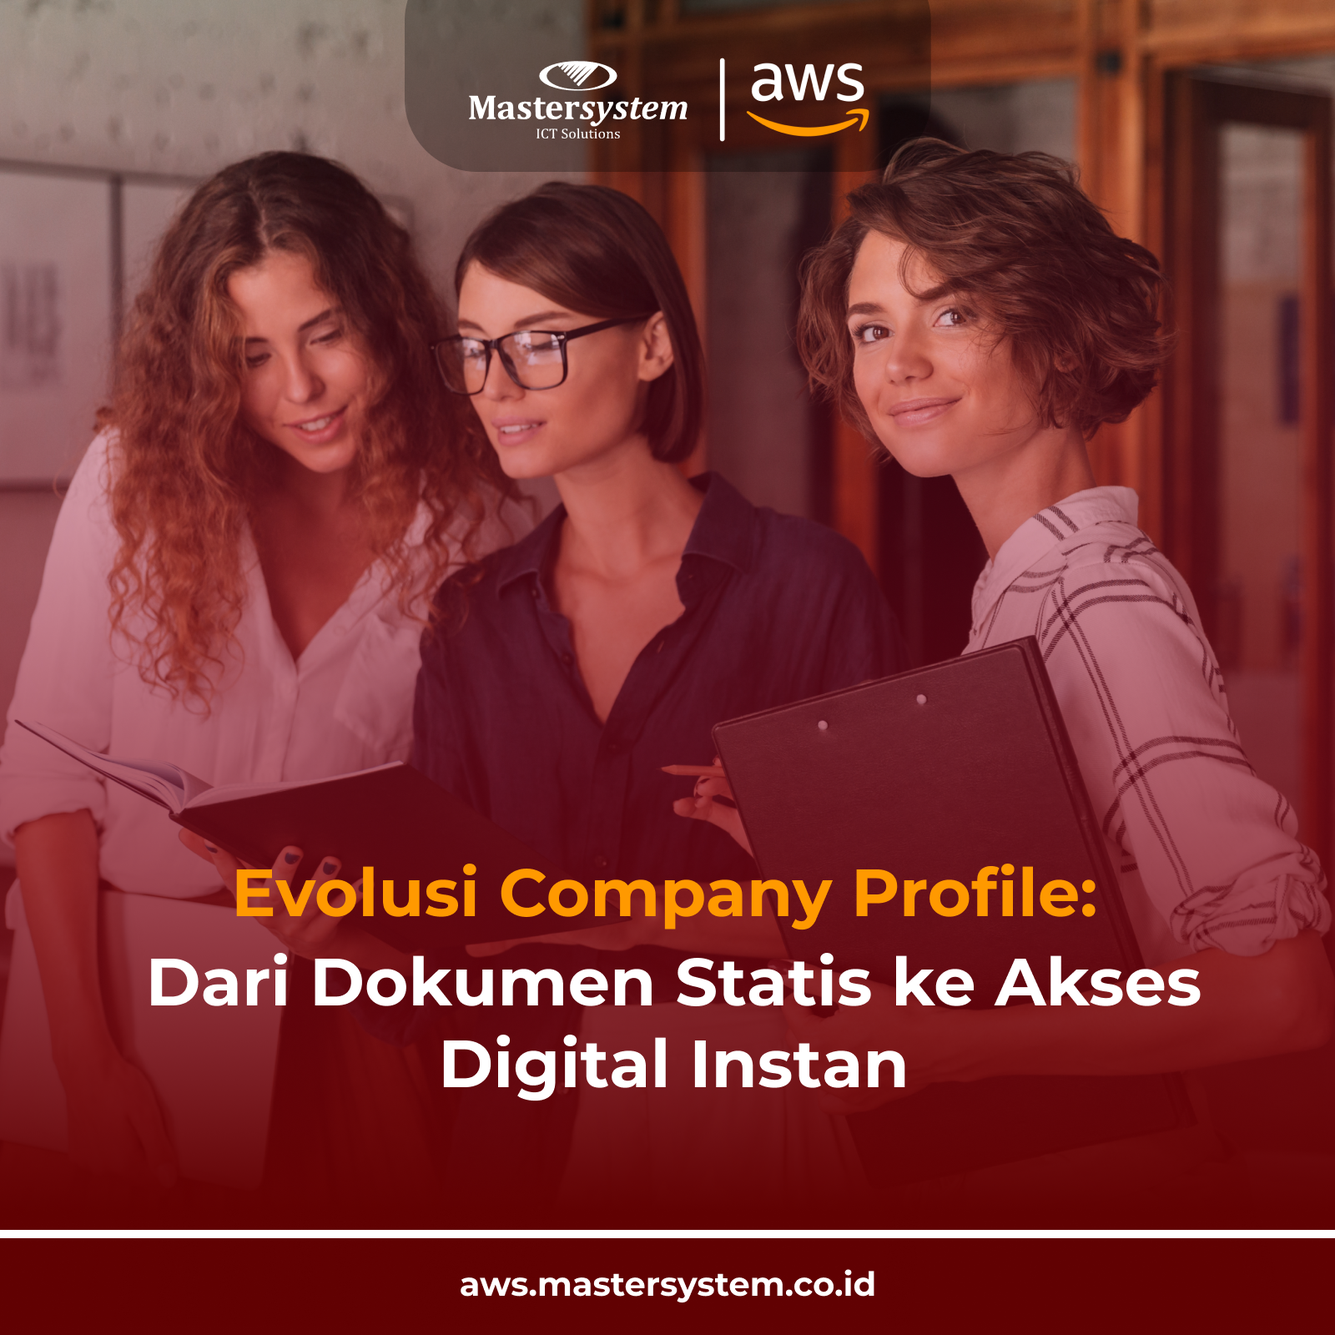
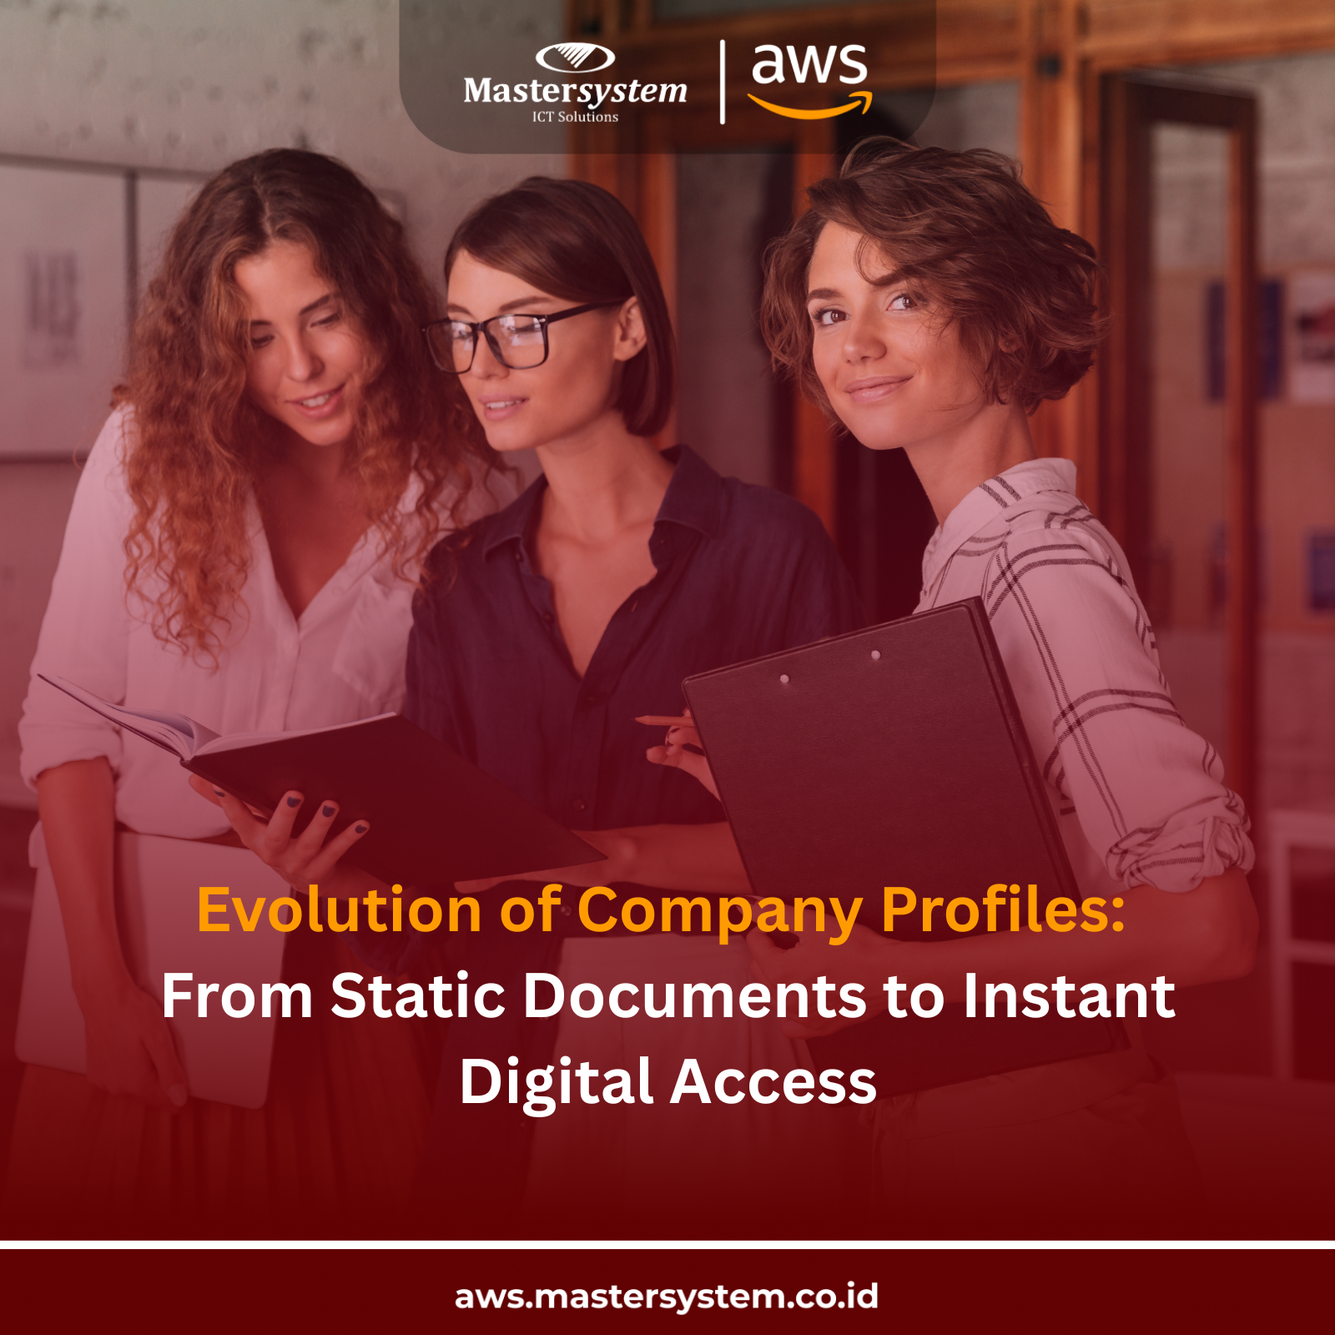
update

diff --git a/src/components/detailNews/AwrapperCompanyProfile.jsx b/src/components/detailNews/AwrapperCompanyProfile.jsx
@@ -18,137 +18,137 @@ const AwrapperCompanyProfile = () => {
   return (
     <>
       <section className='homeAbout' id="sukses_aws">
-        <Heading title='Evolusi Company Profile: Dari Dokumen Statis ke Akses Digital Instan' />
+        <Heading title='Evolution of Company Profiles: From Static Documents to Instant Digital Access' />
         <div className=" bg-white">
-          <h3>Dari File Statis ke Profil Dinamis</h3>
+          <h3>From Static Files to Dynamic Profiles</h3>
           <br />
-          Company profile adalah wajah pertama perusahaan. Sayangnya, format tradisional seperti PDF atau PowerPoint sering merepotkan: file terlalu besar, tampilan tidak responsif di mobile, dan cepat kadaluarsa saat ada update.
+          A company profile is the first impression of a company. Unfortunately, traditional formats such as PDF or PowerPoint are often inconvenient: the files are too large, the display is not responsive on mobile devices, and they quickly become outdated when there are updates.
           <br /><br />
-          Hasilnya, compro yang seharusnya menjadi alat branding dinamis justru sering berakhir sebagai dokumen statis yang cepat kadaluarsa. Di sinilah cloud computing menawarkan solusi. Dengan memanfaatkan Amazon S3, compro yang tadinya berbentuk file statis bisa diubah menjadi situs web sederhana, modern, interaktif, dan selalu up-to-date. Tidak perlu infrastruktur rumit, tidak perlu biaya besar. Cukup unggah file ke cloud, lakukan beberapa pengaturan, dan compro digital siap digunakan.
+          As a result, compros, which should be dynamic branding tools, often end up as static documents that quickly become outdated. This is where cloud computing offers a solution. By utilizing Amazon S3, compros that were previously static files can be converted into simple, modern, interactive, and always up-to-date websites. No complicated infrastructure is needed, and there are no huge costs involved. Simply upload the files to the cloud, make a few settings, and your digital compro is ready to use.
           <br /><br />
 
-          <h3>        Mengapa Memilih Amazon S3 untuk Compro Digital?
+          <h3>        Why Choose Amazon S3 for Compro Digital?
           </h3>
           <div className="image-diagram">
             <img src={diagram1} alt="" />
           </div>
           <br />
-          Amazon Simple Storage Service (S3) adalah layanan penyimpanan data di cloud yang digunakan oleh jutaan perusahaan di seluruh dunia. Banyak yang mengenalnya hanya sebagai “tempat simpan file”, padahal S3 memiliki fitur yang jauh lebih luas.
+          Amazon Simple Storage Service (S3) is a cloud data storage service used by millions of companies around the world. Many people know it only as a “file storage place,” when in fact S3 has much broader features.
           <br /> <br />
-          Salah satu fitur paling relevan untuk company profile digital adalah Static Website Hosting. Dengan fitur ini, bucket (wadah penyimpanan di S3) bisa berfungsi layaknya web server. File HTML, CSS, gambar, hingga video yang diunggah ke bucket dapat langsung ditampilkan sebagai website yang bisa diakses siapa saja.
+          One of the most relevant features for digital company profiles is Static Website Hosting. With this feature, buckets (storage containers in S3) can function like web servers. HTML files, CSS, images, and even videos uploaded to buckets can be directly displayed as websites that anyone can access.
           <br /> <br />
-          Kenapa S3 cocok untuk compro digital?
+          Why is S3 suitable for digital company profiles?
           <br /> <br />
-          <h4>1.	Hemat biaya </h4>
+          <h4>1.	Cost-effective </h4>
           <ul style={{ paddingLeft: '20px' }}>
-            hanya bayar penyimpanan dan Data Transfer Out (DTO). Untuk satu compro digital, biayanya sering kali cuma puluhan ribu rupiah per bulan.
+            You only pay for storage and Data Transfer Out (DTO). For one digital compro, the cost is often only tens of thousands of rupiah per month.
           </ul>
           <br />
-          <h4>2.	Mudah digunakan </h4>
+          <h4>2.	Easy to use </h4>
           <ul style={{ paddingLeft: '20px' }}>
-            tanpa server, tanpa instalasi rumit. Cukup unggah file, aktifkan hosting, compro langsung online.
+            No servers, no complicated installation. Just upload your files, activate hosting, and your compro is online.
           </ul>
           <br />
-          <h4>3.	Aman</h4>
+          <h4>3.	Secure</h4>
           <ul style={{ paddingLeft: '20px' }}>
-            dilengkapi enkripsi, kontrol akses (IAM), dan kepatuhan standar keamanan global.
+            Equipped with encryption, access control (IAM), and global security standards compliance.
           </ul>
           <br />
-          <h4>4.	Andal</h4>
+          <h4>4.	Reliable</h4>
           <ul style={{ paddingLeft: '20px' }}>
-            AWS menjamin daya tahan data hingga 11 nines durability (99,999999999%), membuat data hampir mustahil hilang.
+            AWS guarantees data durability of up to 11 nines (99.999999999%), making data loss virtually impossible.
           </ul>
           <br />
-          <h4>5.  Profesional</h4>
+          <h4>5.  Professional</h4>
           <ul style={{ paddingLeft: '20px' }}>
-            dengan domain perusahaan dan SSL, compro tampil lebih modern dan terpercaya.
+            With a company domain and SSL, compro appears more modern and trustworthy.
           </ul>
           <br />
-          Dengan Static Website Hosting di S3, company profile tidak lagi sekadar file statis, tapi hadir sebagai website interaktif, mudah diakses, dan selalu up-to-date.
+          With Static Website Hosting on S3, company profiles are no longer just static files, but interactive, easily accessible, and always up-to-date websites.
 
           <br /> <br />
-          <h3>Tahapan Implementasi Compro Digital di Amazon S3</h3>
+          <h3>Stages of Compro Digital Implementation in Amazon S3</h3>
           <br />
-          Berikut adalah langkah-langkah praktis, berdasarkan panduan resmi AWS dan best practice yang umum dipakai perusahaan:
+          Here are practical steps based on official AWS guidelines and best practices commonly used by companies:
           <br /> <br />
-          <h4>1.	Persiapan Konten</h4>
+          <h4>1.	Content Preparation</h4>
           <ul style={{ paddingLeft: '20px' }}>
-            Sebelum menyentuh sisi teknis, siapkan konten compro kita. Susun materi seperti:
-            <li>•	Profil perusahaan (visi, misi, sejarah singkat).</li>
-            <li>•	Daftar layanan atau produk unggulan.</li>
-            <li>•	Portofolio proyek beserta gambar pendukung.</li>
-            <li>•	Profil tim inti dengan foto profesional.</li>
-            <li>•	Kontak & alamat perusahaan.</li>
-            <li>•	Dan atau konten lainnya yang disesuaikan dengan kebutuhan masing-masing.</li>
-            Semua materi ini sebaiknya dibuat dalam format web-friendly: teks dalam HTML, gambar dalam JPG/PNG, dan video dalam MP4. Jika belum terbiasa membuat HTML, cukup gunakan template website statis gratis atau ringan.
+            Before touching on the technical side, prepare our compro content. Organize materials such as:
+            <li>•	Company profile (vision, mission, brief history).</li>
+            <li>•	List of services or flagship products.</li>
+            <li>•	Project portfolio with supporting images.</li>
+            <li>•	Core team profiles with professional photos.</li>
+            <li>•	Company contact details and address.</li>
+            <li>•	And/or other content tailored to individual needs.</li>
+            All of this material should be created in a web-friendly format: text in HTML, images in JPG/PNG, and videos in MP4. If you are not familiar with HTML, simply use a free or lightweight static website template.
           </ul>
           <br />
-          <h4>2.	Buat Bucket S3</h4>
+          <h4>2.	Create an S3 Bucket</h4>
           <ul style={{ paddingLeft: '20px' }}>
-            Dari AWS Console, buat bucket baru dengan nama unik (contoh: compro-perusahaan-kita). Pilih region terdekat agar akses lebih cepat dan menjangkau audiens Indonesia dengan baik dengan tahapan, sebagai berikut:
-            <li>•	Login ke AWS Management Console.</li>
-            <li>•	Cari dan pilih layanan S3.</li>
-            <li>•	Klik Create Bucket dan beri nama unik, misalnya “compro-namaperusahaan-kita”.</li>
-            <li>•	Pilih region terdekat dengan target audiens, misalnya Asia Pacific (Jakarta / ap-southeast-3) agar akses lebih cepat untuk user / audiens dari wilayah Indonesia.</li>
+            From the AWS Console, create a new bucket with a unique name (example: compro-our-company). Select the nearest region for faster access and to better reach Indonesian audiences, as follows:
+            <li>•	Log in to the AWS Management Console.</li>
+            <li>•	Search for and select the S3 service.</li>
+            <li>•	Click Create Bucket and give it a unique name, for example, “compro-ourcompanyname”.</li>
+            <li>•	Select the region closest to your target audience, for example, Asia Pacific (Jakarta / ap-southeast-3) for faster access for users / audiences from the Indonesian region. </li>
             (https://docs.aws.amazon.com/AmazonS3/latest/userguide/HostingWebsiteOnS3Setup.html).
           </ul>
           <br />
-          <h4>3.	Aktifkan Static Website Hosting</h4>
+          <h4>3.	Enable Static Website Hosting</h4>
           <ul style={{ paddingLeft: '20px' }}>
-            Di pengaturan bucket, aktifkan Static Website Hosting, dan tetapkan index.html sebagai halaman default, dengan tahapan sebagai berikut:
-            <li>•	Masuk ke tab Properties bucket.</li>
-            <li>•	Aktifkan opsi Static Website Hosting.</li>
-            <li>•	Masukkan index.html sebagai default document.</li>
-            Langkah ini membuat bucket Anda bisa berfungsi sebagai web server.
+            In the bucket settings, enable Static Website Hosting and set index.html as the default page, following these steps:
+            <li>•	Go to the bucket Properties tab.</li>
+            <li>•	Enable the Static Website Hosting option.</li>
+            <li>•	Enter index.html as the default document.</li>
+            This step enables your bucket to function as a web server.
             (https://docs.aws.amazon.com/AmazonS3/latest/userguide/HostingWebsiteOnS3Setup.html)
           </ul>
           <br />
-          <h4>4.	Mengizinkan Akses Publik</h4>
+          <h4>4.	Allow Public Access</h4>
           <ul style={{ paddingLeft: '20px' }}>
-            Secara default, bucket S3 bersifat private / tidak bisa diakses oleh semua orang. Nah, agar website dapat diakses orang lain, maka diperlukan:
-            <li>•	Me-nonaktifkan Block All Public Access.</li>
-            <li>•	Tambahkan Bucket Policy yang memberikan akses GetObject untuk semua orang (read-only).</li>
-            Catatan: Kebijakan ini tidak berbahaya karena hanya memberikan akses baca, sementara hak edit tetap terbatas untuk pemilik akun AWS.
+            By default, S3 buckets are private / cannot be accessed by everyone. To make the website accessible to others, you need to:
+            <li>•	Disable Block All Public Access.</li>
+            <li>•	Add a Bucket Policy that grants GetObject access to everyone (read-only).</li>
+            Note: This policy is not dangerous because it only grants read access, while edit rights remain restricted to AWS account owners.
             (https://docs.aws.amazon.com/AmazonS3/latest/userguide/HostingWebsiteOnS3Setup.html)
 
           </ul>
           <br />
-          <h4>5.	Upload Konten</h4>
+          <h4>5.	Upload Content</h4>
           <ul style={{ paddingLeft: '20px' }}>
-            Unggah semua file ke bucket dan pastikan juga struktur file disusun secara rapi, seperti Upload semua file yang dibutuhkan: index.html, folder /images untuk gambar, /videos untuk video.
+            Upload all files to the bucket and ensure that the file structure is organized neatly, such as Upload all necessary files: index.html, the /images folder for images, /videos for videos.
             (https://docs.aws.amazon.com/AmazonS3/latest/userguide/HostingWebsiteOnS3Setup.html)
           </ul>
           <br />
-          <h4>6.	Hubungkan dengan Domain (Opsional tapi akan terlihat lebih profesional)</h4>
+          <h4>6.	Connect to a Domain (Optional but will look more professional)</h4>
           <ul style={{ paddingLeft: '20px' }}>
-            Untuk mendapatkan hasil yang lebih terlihat profesional, kita dapat menggunakan domain perusahaan (misalnya profile.namaperusahaan-kita.co.id), dengan:
-            <li>•	Perlu membeli domain (jika belum punya) atau bisa menggunakan domain yang sudah ada.</li>
-            <li>•	Arahkan domain atau subdomain ke bucket S3 menggunakan Amazon Route 53.</li>
+            To get a more professional look, we can use a company domain (for example, profile.ourcompanyname.co.id), with:
+            <li>•	You need to purchase a domain (if you don't already have one) or you can use an existing domain.</li>
+            <li>•	Point your domain or subdomain to your S3 bucket using Amazon Route 53.</li>
             (https://docs.aws.amazon.com/AmazonS3/latest/userguide/website-hosting-custom-domain-walkthrough.html).
           </ul>
           <br />
-          <h4>7.	Percepat & Amankan Akses dengan CloudFront</h4>
+          <h4>7.	Accelerate & Secure Access with CloudFront</h4>
           <ul style={{ paddingLeft: '20px' }}>
-            Amazon CloudFront berfungsi sebagai Content Delivery Network (CDN) yang mana:
-            <li>•	Dengan CloudFront, website compro bisa diakses lebih cepat dari seluruh dunia.</li>
-            <li>•	CloudFront juga memungkinkan penggunaan SSL/TLS, sehingga compro bisa diakses dengan alamat “https://”.</li>
-            <li>•	Hal ini penting agar klien merasa aman saat membuka link kita.</li>
+            Amazon CloudFront functions as a Content Delivery Network (CDN) which:
+            <li>•	With CloudFront, compro websites can be accessed more quickly from all over the world.</li>
+            <li>•	CloudFront also enables the use of SSL/TLS, so compro can be accessed with the address “https://”.</li>
+            <li>•	This is important so that clients feel secure when opening our links.</li>
             (https://docs.aws.amazon.com/AmazonS3/latest/userguide/website-hosting-custom-domain-walkthrough.html).
           </ul>
           <br />
-          <h4>8.	Optimasi Konten & Responsif</h4>
+          <h4>8.	Content Optimization & Responsiveness</h4>
           <ul style={{ paddingLeft: '20px' }}>
-            Kompres gambar, pastikan desain responsif agar tampil optimal di desktop maupun mobile. Jika ingin lebih interaktif, tambahkan form kontak menggunakan AWS Lambda + API Gateway—opsional tapi bisa meningkatkan engagement.
+            Compress images, ensure responsive design for optimal display on desktop and mobile. For added interactivity, include a contact form using AWS Lambda + API Gateway—optional but can boost engagement.
           </ul>
           <br />
-          <h4>9.	Bagikan dengan QR Code</h4>
+          <h4>9.	Share with QR Code</h4>
           <ul style={{ paddingLeft: '20px' }}>
-            Setelah compro digital kita memiliki domain khusus, langkah berikutnya adalah membuatnya lebih mudah dibagikan. Caranya sederhana: ubah link https://profile.namaperusahaan-kita.co.id menjadi QR Code. QR Code ini bisa dicetak di kartu nama, brosur, bahkan dipasang di booth pameran. Dengan begitu, calon klien tinggal memindai barcode untuk langsung membuka compro digital kita, tanpa harus mengetik alamat website.
+            Once our digital compro has a dedicated domain, the next step is to make it easier to share. It's simple: convert the link https://profile.namaperusahaan-kita.co.id into a QR Code. This QR Code can be printed on business cards, brochures, or even displayed at exhibition booths. That way, potential clients can simply scan the barcode to directly open our digital compro, without having to type in the website address.
           </ul>
           <br /> <br />
-          Company profile kini bukan lagi file PDF yang cepat kadaluarsa. Dengan Amazon S3, compro menjadi wajah digital perusahaan yang dinamis, hemat, dan selalu terlihat profesional.
+          Company profiles are no longer PDF files that quickly become outdated. With Amazon S3, compro becomes a dynamic, cost-effective, and always professional digital face of the company.
           <br /> <br />
-          PT Mastersystem Infotama Tbk (MSTI) siap membantu mewujudkannya. Lewat layanan Managed Service 24/7, kami mendampingi mulai dari desain hingga implementasi, memastikan solusi cloud—including compro digital—berjalan lancar dan memberi nilai nyata bagi bisnis Anda.
+          PT Mastersystem Infotama Tbk (MSTI) is ready to help make it happen. Through our 24/7 Managed Service, we assist you from design to implementation, ensuring that cloud solutions—including digital compro—run smoothly and provide real value for your business.
 
         </div>
 

diff --git a/src/components/detailNews/AwrapperAwsMsp.jsx b/src/components/detailNews/AwrapperAwsMsp.jsx
@@ -1,0 +1,47 @@
+import { useEffect } from "react"
+import Heading from "../common/heading/Heading"
+import diagram1 from '../components/image/Aws Blog - AWS MSP (2).jpeg';
+import { useLocation } from "react-router-dom";
+
+
+
+const AwrapperAwsMsp = () => {
+  const { pathname } = useLocation();
+
+  useEffect(() => {
+    window.scrollTo(0, 0);
+  }, [pathname]);
+
+  return (
+    <>
+      <section className='homeAbout' id="sukses_aws">
+        <Heading title='Level Up! Mastersystem Unlocks AWS Managed Service Provider Recognition' />
+        <div className=" bg-white">
+          <div className="image-diagram">
+            <img src={diagram1} alt="" />
+          </div>
+          <br />
+          PT Mastersystem Infotama Tbk is proud to announce our latest achievement as an official AWS Managed Service Provider (MSP). This achievement marks a major milestone in our cloud journey, as well as proof of Mastersystem's ability to deliver AWS Managed Services that prioritize automation, operational excellence, and continuous innovation.
+          <br /><br />
+          This recognition is awarded by Amazon Web Services (AWS) to partners who have met all AWS assessment standards to ensure reliable, results-oriented service quality. This designation is not merely a certification, but rather a form of recognition from AWS to partners who have demonstrated excellence and consistency in terms of: 
+
+          <br />
+          <ul style={{ paddingLeft: '20px' }}>
+          <li>1.	In-depth technical expertise and success in supporting customers on AWS</li>
+          <li>2.	Strong operational governance and security</li>
+          <li>3.	Commitment to continuous improvement through DevOps and automation</li>
+          <li>4.	Strong collaboration with AWS to help customers grow safely and efficiently</li>
+          </ul>
+          <br />
+          This success is the result of the hard work and extraordinary dedication of the Mastersystem Cloud & Managed Service team, under the leadership of Joko Gunawan and Raymon Citra as Board of Directors of PT Mastersystem Infotama Tbk, as well as the full support of customers and the AWS Partner team.
+          <br />
+          As part of the AWS Partner Network, Mastersystem will continue to expand its contribution in helping various organizations accelerate their cloud transformation with trust, speed, and agility.
+
+        </div>
+
+      </section>
+    </>
+  )
+}
+
+export default AwrapperAwsMsp

diff --git a/src/dummydata.js b/src/dummydata.js
@@ -734,6 +734,16 @@ export const blog = [
 ]
 export const news = [
   {
+    id: "AwsMsp",
+    type: "blog",
+    date: "Nov. 07, 2025",
+    com: "3 COMMENTS ",
+    title: "Level Up! Mastersystem Unlocks AWS Managed Service Provider Recognition",
+    konten : "Japan Tobacco International telah berkembang dari perusahaan importir menjadi salah satu perusahaan manufaktur terbesar di industri tembakau Indonesia yang didirikan pada tahun 2010.Dalam kurun waktu 10 tahun, JTI Indonesia telah meraih banyak prestasi sukses, mulai dari mengembangkan rokok kretek pertamanya hingga akuisisi perusahaan manufaktur besar dan kantor distribusinya dengan cakupan nasional. Namun pada proses bisnisnya, JTI Indonesia masih memiliki proses manual yang diulang setiap harinya, seperti mengambil data dari website minimarket Indonesia untuk disimpan di Server Database JTI Indonesia.  Untuk menggantikan proses manual tersebut, JTI Indonesia mencari solusi otomatisasi agar tugas rutin yang biasa dilakukan secara manual bisa dilakukan dengan cepat, mudah dan hemat biaya. Mastersystem Infotama (Mastersystem) sebagai Partner Amazon Web Service (AWS) sekaligus Partner Nintex berkolaborasi untuk membantu kebutuhan JTI Indonesia dengan menyediakan solusi Enterprise Nintex Robotic Process Automation (RPA) yang berjalan di AWS. Untuk meningkatkan akurasi, konsistensi dalam pengolahan data ini, perlu dilakukan peningkatan penggunaan RPA. Dengan RPA, volume tinggi dan pekerjaan manual berulang dapat sepenuhnya diatasi melalui otomatisasi. Sehingga waktu yang sebelumnya digunakan untuk menyelesaikan pekerjaan, dapat dialokasikan untuk pekerjaan lain.", 
+    desc: "With AWS MSP, Mastersystem is ready to accelerate the cloud transformation of companies in Indonesia with high confidence and agility.",
+    cover: "../images/sucess/Aws Blog - AWS MSP.jpeg",
+  },
+  {
     id: "Companyprofile",
     type: "blog",
     date: "SEP. 24, 2025",

diff --git a/src/App.js b/src/App.js
@@ -40,6 +40,7 @@ import InfrastrukturIT from "./components/detailNews/InfrastrukturIT";
 import MigrasiIT from "./components/detailNews/MigrasiIT";
 import CompanyProfile from "./components/detailNews/CompanyProfile";
 import InvestmentSukses from "./components/sucessStory/InvestmentSukses";
+import AwsMsp from "./components/detailNews/AwsMsp";
 
 function App() {
   return (
@@ -80,6 +81,7 @@ function App() {
           <Route  path='/news/InfrastrukturIT' element={<InfrastrukturIT/>} />
           <Route  path='/news/MigrasiIT' element={<MigrasiIT/>} />
           <Route  path='/news/CompanyProfile' element={<CompanyProfile/>} />
+          <Route  path='/news/AwsMsp' element={<AwsMsp/>} />
           <Route  path='/journal/:id' element={<DetailBlog/>} />
           <Route  path='/news/:id' element={<DetailNews/>} />
           <Route path='/contact' element={<Contact />} />

diff --git a/src/components/detailNews/AwsMsp.jsx b/src/components/detailNews/AwsMsp.jsx
@@ -1,0 +1,15 @@
+import React from "react"
+import "./detailBlog.css"
+import Back from "../common/back/Back"
+import AwrapperAwsMsp from "./AwrapperAwsMsp"
+
+const AwsMsp = () => {
+  return (
+    <>
+      <Back title='News' />
+        <AwrapperAwsMsp/>
+    </>
+  )
+}
+
+export default AwsMsp
